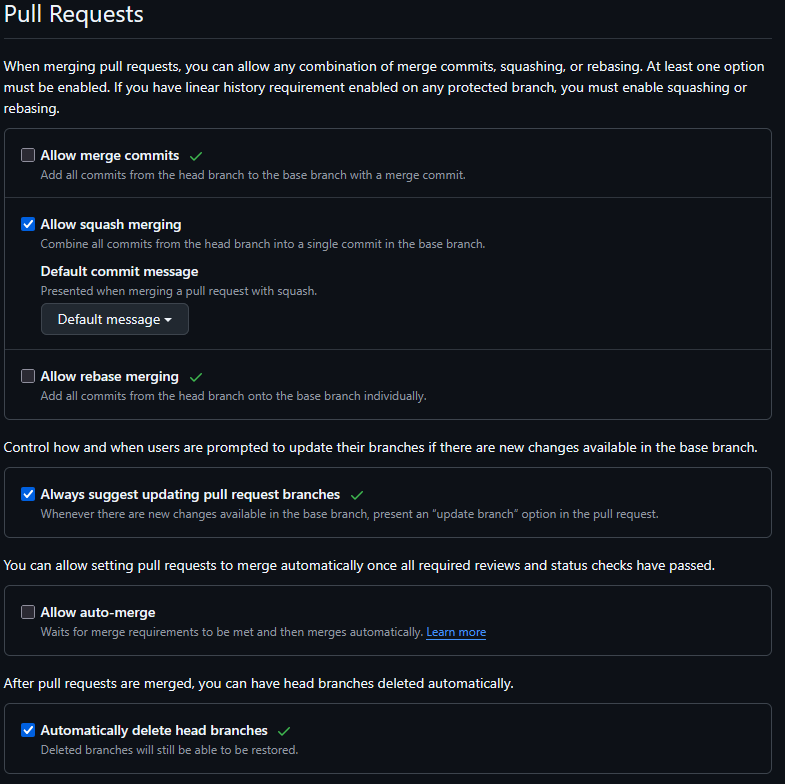
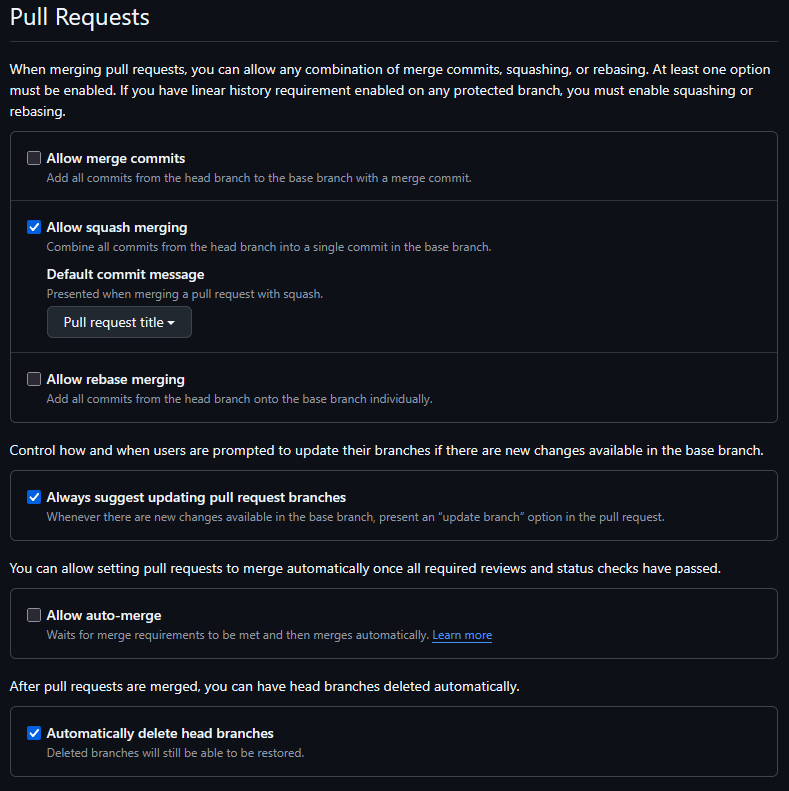
wip

diff --git a/articles/011/content.html b/articles/011/content.html
@@ -32,7 +32,7 @@
             </figure>
             <h3>1) Créer un dépot GitHub</h3>
             <p>
-                Lors de la création d'un dépôt GitHub, il faut saisir les informations suivantes:
+                Sur GitHub, il faut créer un nouveau dépôt avec les informations suivantes:
             </p>
             <ul>
                 <li>Remplir dans <i>"General"</i> :
@@ -146,8 +146,7 @@ dotnet sln add Vernou.Librairies.Example.Tests
             <span style="color: #007020">cd</span><span style="color: #BBB"> </span>Vernou.Librairies.Example
 
             <span style="color: #888"># Génére le package NuGet</span>
-            dotnet<span style="color: #BBB"> </span>pack
-            </pre></div>
+            dotnet<span style="color: #BBB"> </span>pack</pre></div>
             <p>
                 Finalement, il faut pousser les modifications sur GitHub :
             </p>
@@ -156,7 +155,7 @@ dotnet sln add Vernou.Librairies.Example.Tests
                 <pre style="margin: 0; line-height: 125%"><span style="color: #888888"># Pousse les modiffications sur GitHub</span>
 git add *
 git commit -m <span style="background-color: #fff0f0">&quot;feat(lib): Initialize the solution&quot;</span>
-git push</pre>
+git push</pre></div>
             <h3>3) Mise en place de l'intégration continue</h3>
             <p>
                 Dans le dépôt sur GitHub, il faut ajouter le fichier ".github/workflows/ci.yml" :
@@ -193,7 +192,7 @@ git push</pre>
             <p>
                 Avec le message de commit :
             </p>
-            <pre>feat(lib): Add CI workflow</pre>
+            <div style="background: #ffffff; overflow:auto;width:auto;border:solid gray;border-width:.1em .1em .1em .8em;padding:.2em .6em;"><pre style="margin: 0; line-height: 125%">feat(lib): Add CI workflow</pre></div>
             <h3>4) Configurer le dépot GitHub</h3>
             <p>
                 Dans l'onglet "Settings" du dépôt sur GitHub, il faut configurer les options suivantes:
@@ -214,7 +213,7 @@ git push</pre>
                         <li>
                             Pour <i>"Pull Requests"</i>:
                             <ul>
-                                <li>Activer <b>"Allow squash merging"</b> avec <i>Sélectionner "Default commit message"</i> à <b>"Pull request title"</b></li>
+                                <li>Activer <b>"Allow squash merging"</b> avec <i>"Default commit message"</i> à <b>"Pull request title"</b></li>
                                 <li>Activer <b>"Always suggest updating pull request branches"</b></li>
                                 <li>Activer <b>"Automatically delete head branches"</b></li>
                             </ul>
@@ -226,26 +225,49 @@ git push</pre>
                     Dans <i>"Rules > Rulesets"</i>:
                     <ul>
                         <li>
-                            Cliquer sur <b>"New ruleset > New branch ruleset"</b>
+                            Cliquer sur <b>"New ruleset > Import a ruleset"</b>
                             <br />
                             <img src="picture4.png" alt="Créer une régle de gestion des branches" />
                         </li>
-                        <li>Saisir dans <i>"Ruleset Name"</i> <b>"default-branches"</b></li>
-                        <li>Sélectionner <i>"Enforcement status"</i> à <b>"Active"</b></li>
                         <li>
-                            Dans <i>"Target branches"</i>, sélectionnez <b>"Include default branch"</b>
-                            <br />
-                            <img src="picture5.png" alt="Configuration de la régle de gestion" />
-                        </li>
-                        <li>
-                            Dans "Branch rules"
-                            <ul>
-                                <li>Activer <b>"Restrict deletions"</b></li>
-                                <li>Activer <b>"Require linear history"</b></li>
-                                <li>Activer <b>"Require a pull request before merging"</b> avec l'option <b>"Require conversation resolution before merging"</b></li>
-                                <li>Activer <b>"Block force pushes"</b></li>
-                            </ul>
-                            <img src="picture6.png" alt="Configuration de la régle de gestion (suite)" />
+                            Sélectionner le fichier JSON avec le contenu suivant :
+                            <!-- HTML generated using hilite.me --><div style="background: #ffffff; overflow:auto;width:auto;border:solid gray;border-width:.1em .1em .1em .8em;padding:.2em .6em;"><pre style="margin: 0; line-height: 125%;"><span></span>{
+<span style="color: #BBB">  </span><span style="color: #070">&quot;name&quot;</span>:<span style="color: #BBB"> </span><span style="background-color: #FFF0F0">&quot;default-branches&quot;</span>,
+<span style="color: #BBB">  </span><span style="color: #070">&quot;target&quot;</span>:<span style="color: #BBB"> </span><span style="background-color: #FFF0F0">&quot;branch&quot;</span>,
+<span style="color: #BBB">  </span><span style="color: #070">&quot;enforcement&quot;</span>:<span style="color: #BBB"> </span><span style="background-color: #FFF0F0">&quot;active&quot;</span>,
+<span style="color: #BBB">  </span><span style="color: #070">&quot;conditions&quot;</span>:<span style="color: #BBB"> </span>{
+<span style="color: #BBB">    </span><span style="color: #070">&quot;ref_name&quot;</span>:<span style="color: #BBB"> </span>{
+<span style="color: #BBB">      </span><span style="color: #070">&quot;exclude&quot;</span>:<span style="color: #BBB"> </span>[],
+<span style="color: #BBB">      </span><span style="color: #070">&quot;include&quot;</span>:<span style="color: #BBB"> </span>[<span style="color: #BBB"> </span><span style="background-color: #FFF0F0">&quot;~DEFAULT_BRANCH&quot;</span><span style="color: #BBB"> </span>]
+<span style="color: #BBB">    </span>}
+<span style="color: #BBB">  </span>},
+<span style="color: #BBB">  </span><span style="color: #070">&quot;rules&quot;</span>:<span style="color: #BBB"> </span>[
+<span style="color: #BBB">    </span>{<span style="color: #BBB"> </span><span style="color: #070">&quot;type&quot;</span>:<span style="color: #BBB"> </span><span style="background-color: #FFF0F0">&quot;deletion&quot;</span><span style="color: #BBB"> </span>},
+<span style="color: #BBB">    </span>{<span style="color: #BBB"> </span><span style="color: #070">&quot;type&quot;</span>:<span style="color: #BBB"> </span><span style="background-color: #FFF0F0">&quot;non_fast_forward&quot;</span><span style="color: #BBB"> </span>},
+<span style="color: #BBB">    </span>{<span style="color: #BBB"> </span><span style="color: #070">&quot;type&quot;</span>:<span style="color: #BBB"> </span><span style="background-color: #FFF0F0">&quot;required_linear_history&quot;</span><span style="color: #BBB"> </span>},
+<span style="color: #BBB">    </span>{
+<span style="color: #BBB">      </span><span style="color: #070">&quot;type&quot;</span>:<span style="color: #BBB"> </span><span style="background-color: #FFF0F0">&quot;pull_request&quot;</span>,
+<span style="color: #BBB">      </span><span style="color: #070">&quot;parameters&quot;</span>:<span style="color: #BBB"> </span>{
+<span style="color: #BBB">        </span><span style="color: #070">&quot;required_approving_review_count&quot;</span>:<span style="color: #BBB"> </span><span style="color: #00D; font-weight: bold">0</span>,
+<span style="color: #BBB">        </span><span style="color: #070">&quot;dismiss_stale_reviews_on_push&quot;</span>:<span style="color: #BBB"> </span><span style="color: #080; font-weight: bold">false</span>,
+<span style="color: #BBB">        </span><span style="color: #070">&quot;required_reviewers&quot;</span>:<span style="color: #BBB"> </span>[],
+<span style="color: #BBB">        </span><span style="color: #070">&quot;require_code_owner_review&quot;</span>:<span style="color: #BBB"> </span><span style="color: #080; font-weight: bold">false</span>,
+<span style="color: #BBB">        </span><span style="color: #070">&quot;require_last_push_approval&quot;</span>:<span style="color: #BBB"> </span><span style="color: #080; font-weight: bold">false</span>,
+<span style="color: #BBB">        </span><span style="color: #070">&quot;required_review_thread_resolution&quot;</span>:<span style="color: #BBB"> </span><span style="color: #080; font-weight: bold">true</span>,
+<span style="color: #BBB">        </span><span style="color: #070">&quot;automatic_copilot_code_review_enabled&quot;</span>:<span style="color: #BBB"> </span><span style="color: #080; font-weight: bold">false</span>,
+<span style="color: #BBB">        </span><span style="color: #070">&quot;allowed_merge_methods&quot;</span>:<span style="color: #BBB"> </span>[<span style="color: #BBB"> </span><span style="background-color: #FFF0F0">&quot;squash&quot;</span><span style="color: #BBB"> </span>]
+<span style="color: #BBB">      </span>}
+<span style="color: #BBB">    </span>}
+<span style="color: #BBB">  </span>],
+<span style="color: #BBB">  </span><span style="color: #070">&quot;bypass_actors&quot;</span>:<span style="color: #BBB"> </span>[
+<span style="color: #BBB">    </span>{
+<span style="color: #BBB">      </span><span style="color: #070">&quot;actor_id&quot;</span>:<span style="color: #BBB"> </span><span style="color: #00D; font-weight: bold">5</span>,
+<span style="color: #BBB">      </span><span style="color: #070">&quot;actor_type&quot;</span>:<span style="color: #BBB"> </span><span style="background-color: #FFF0F0">&quot;RepositoryRole&quot;</span>,
+<span style="color: #BBB">      </span><span style="color: #070">&quot;bypass_mode&quot;</span>:<span style="color: #BBB"> </span><span style="background-color: #FFF0F0">&quot;always&quot;</span>
+<span style="color: #BBB">    </span>}
+<span style="color: #BBB">  </span>]
+}
+</pre></div>
                         </li>
                         <li>Cliquer sur <b>"Create"</b></li>
                     </ul>
